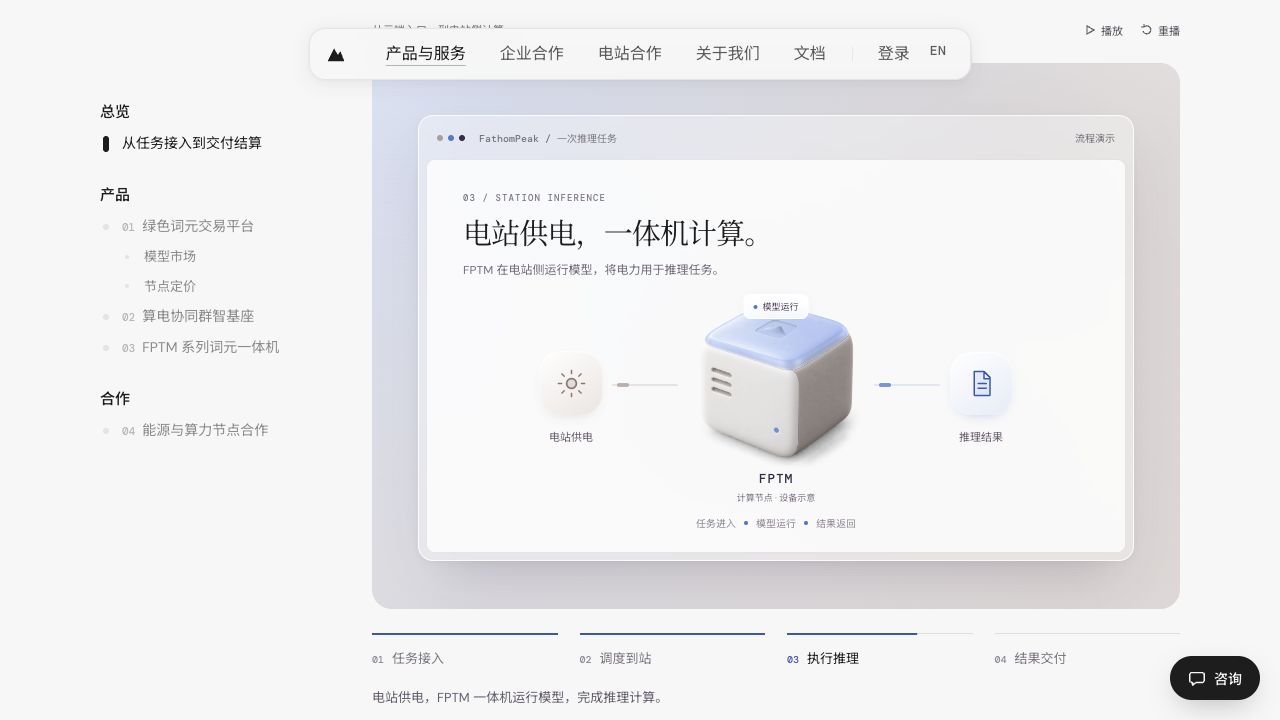
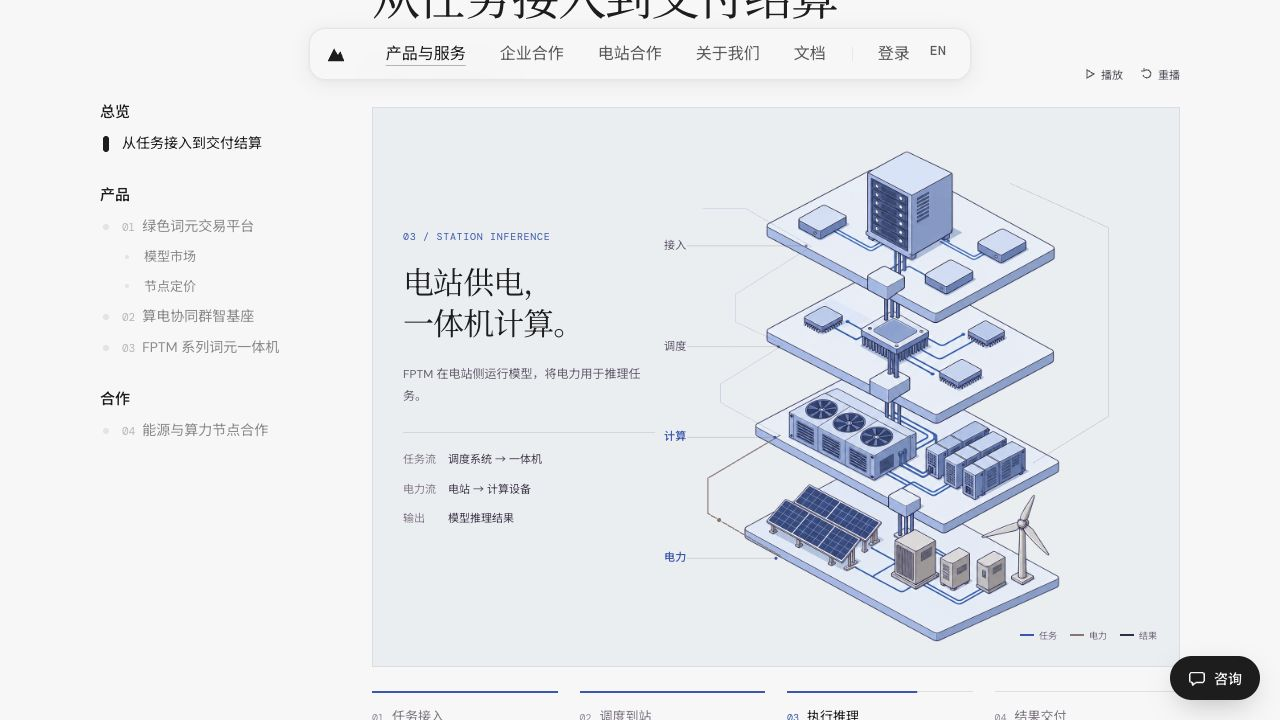
Replace ceramic cube with reference-led isometric engineering flow

diff --git a/index.html b/index.html
@@ -681,42 +681,22 @@ a.sx-a:hover .sxw,a.sx-a:hover .sx-plant{transform:translateY(-2px);background:r
  .gcard:hover .pv{transform:translateY(-3px)}.gcard .pv{transition:transform .3s var(--ease-out)}
 }
 
-/* A single task, shown through four translucent product scenes. */
-.business-flow{margin:30px 0 0;color:var(--brand-carbon);--flow-progress:0;--flow-tone:var(--brand-blue)}
+/* Engineering illustration: conceptual roles, separate task and energy flows. */
+.business-flow{margin:30px 0 0;color:var(--brand-carbon)}
 .flow-toolbar{display:flex;align-items:center;justify-content:space-between;gap:12px;margin-bottom:14px;color:#766f78;font:400 11px var(--mono)}
-.flow-controls{display:flex;gap:18px}.flow-controls button{display:flex;align-items:center;gap:5px;min-height:38px;padding:4px 0;border:0;background:none;color:#655f69;font:400 11px var(--sans);cursor:pointer}.flow-controls button:hover{color:var(--brand-action)}.flow-controls svg{width:12px;height:12px}.flow-controls button:disabled{opacity:.55;cursor:default}
-.flow-stage{position:relative;isolation:isolate;padding:52px 46px 48px;overflow:hidden;border-radius:20px;background:#eeeff1}
-.flow-stage:before,.flow-stage:after{content:"";position:absolute;inset:0;z-index:-1;pointer-events:none;transition:opacity 1.2s ease}
-.flow-stage:before{background:radial-gradient(ellipse at 12% 12%,#5284D72e,transparent 65%),radial-gradient(ellipse at 90% 95%,#B7A8A352,transparent 65%),linear-gradient(125deg,#f3f5f8,#f3f0f1)}
-.flow-stage:after{opacity:0;background:radial-gradient(ellipse at 82% 20%,#B7A8A355,transparent 70%),radial-gradient(ellipse at 12% 100%,#3D314F22,transparent 65%)}
-.business-flow[data-phase="2"] .flow-stage:after,.business-flow[data-phase="3"] .flow-stage:after{opacity:1}
-.flow-window{position:relative;padding:0 8px 8px;background:rgba(255,255,255,.38);border:1px solid rgba(255,255,255,.86);border-radius:15px;box-shadow:0 2px 5px #3D314F0a,0 25px 50px -24px #3D314F40;backdrop-filter:blur(18px);-webkit-backdrop-filter:blur(18px)}
-.flow-bar{height:44px;display:flex;align-items:center;gap:14px;padding:0 10px;font:400 10px var(--mono);color:#837d87}.flow-dots{display:flex;gap:5px}.flow-dots i{width:6px;height:6px;border-radius:50%;background:var(--brand-warm)}.flow-dots i:nth-child(2){background:var(--brand-blue)}.flow-dots i:nth-child(3){background:var(--brand-violet)}.flow-bar small{margin-left:auto;font:400 10px var(--sans)}
-.flow-canvas{position:relative;height:392px;border-radius:8px;background:rgba(255,255,255,.79);overflow:hidden;box-shadow:0 0 0 1px #3D314F04}
-.flow-scene{position:absolute;inset:0;padding:32px 36px;opacity:0;visibility:hidden;transform:translateY(12px);transition:opacity .55s ease,transform .75s cubic-bezier(.2,.7,.2,1),visibility 0s;pointer-events:none}
-.flow-scene.is-current{opacity:1;visibility:visible;transform:none;pointer-events:auto}.flow-eyebrow{font:400 9px var(--mono);letter-spacing:1.1px;color:#8a808f;display:block;margin-bottom:12px}.flow-scene h3{font:400 29px/1.25 var(--serif);letter-spacing:-.03em;margin:0 0 8px;color:var(--brand-carbon)}.flow-scene p{font:400 12px/1.8 var(--sans);color:#807987;margin:0}.flow-scene b{font-weight:500}.flow-scene h3>span{display:inline-block}html[lang="en"] .flow-scene h3>span+span{margin-left:.2em}
-.flow-request{display:grid;grid-template-columns:1fr 1.14fr;align-items:center;gap:35px;height:100%;padding-bottom:14px}.flow-mark{display:grid;place-items:center;width:54px;height:54px;border-radius:16px;background:#5284D718;color:var(--brand-action);margin-bottom:23px}.flow-mark svg{width:27px;height:27px}.flow-request h3{font-size:32px}.flow-request-paper{padding:22px 22px 12px;border:1px solid #fff;border-radius:10px;background:#ffffffbf;box-shadow:0 10px 30px -15px #3D314F30;transform:translateY(calc((1 - var(--flow-reveal)) * 10px));opacity:calc(.3 + var(--flow-reveal)*.7)}.flow-paper-head{display:flex;justify-content:space-between;align-items:center;font:400 10px var(--mono);color:var(--brand-action);padding-bottom:18px;border-bottom:1px solid #3D314F0d}.flow-paper-head svg{width:15px;height:15px}.flow-fields{margin:4px 0 0}.flow-fields div{padding:13px 0;display:flex;justify-content:space-between;border-bottom:1px solid #3D314F08;font:400 11px var(--sans);gap:10px}.flow-fields div:last-child{border:0}.flow-fields dt{color:#938a96}.flow-fields dd{margin:0;color:#504758}.flow-transfer{margin-top:17px;color:var(--brand-action)!important;font:400 10px var(--mono)!important}.flow-transfer i{display:inline-block;vertical-align:middle;width:5px;height:5px;background:var(--brand-blue);border-radius:50%;margin-right:6px;opacity:calc(.25 + var(--flow-reveal)*.75)}
-.flow-criteria{display:flex;gap:16px;margin:20px 0 17px;font:400 10px var(--sans);color:#7c7385}.flow-criteria span{display:flex;align-items:center;gap:5px}.flow-criteria i{height:5px;width:5px;background:var(--brand-blue);border-radius:50%}.flow-criteria span:nth-child(2) i{background:var(--brand-warm)}.flow-criteria span:nth-child(3) i{background:var(--brand-violet)}
-.flow-stations{display:grid;grid-template-columns:repeat(3,1fr);gap:10px;position:relative}.flow-station{min-width:0;position:relative;height:149px;padding:19px 15px 15px;border-radius:10px;background:#B7A8A30b;border:1px solid #3D314F08;transition:background .5s,box-shadow .5s}.flow-station.selected{background:rgba(82,132,215,var(--flow-wash));box-shadow:inset 0 0 0 1px rgba(82,132,215,var(--flow-line))}.flow-station svg{width:27px;height:27px;color:var(--brand-warm);display:block;margin-bottom:13px}.flow-station.selected svg{color:var(--brand-action)}.flow-station b{display:block;font:400 13px var(--sans);margin-bottom:3px}.flow-station small{font:400 10px var(--sans);color:#8a808e}.flow-picked{position:absolute;right:12px;top:15px;color:var(--brand-action);font:400 9px var(--sans);opacity:var(--flow-reveal)}.flow-route-note{display:flex;align-items:center;gap:9px;margin-top:15px;font:400 10px var(--sans);color:#81768a}.flow-route-note strong{font-weight:400;color:var(--brand-action);opacity:var(--flow-reveal)}.flow-route-note i{height:1px;flex:1;background:linear-gradient(90deg,#5284D7aa,#5284D71a);transform:scaleX(var(--flow-reveal));transform-origin:left}
-.flow-compute{display:flex;align-items:center;justify-content:center;margin:6px 0 8px;gap:0;height:220px}
-.flow-source,.flow-output{width:82px;text-align:center;flex:none;font:400 11px var(--sans);color:#766b7c}
-.flow-source-orb{width:64px;height:64px;margin:0 auto 13px;display:grid;place-items:center;border-radius:22px;background:linear-gradient(145deg,#fff,#eee8e5);box-shadow:inset 0 1px 2px #fff,0 6px 14px -9px #B7A8A380}
-.flow-source-orb svg{width:29px;height:29px;color:#9b8179;fill:#B7A8A340;stroke-width:1.4}
-.flow-output>svg{box-sizing:content-box;display:block;width:29px;height:29px;padding:17px;border-radius:22px;margin:0 auto 13px;color:var(--brand-action);fill:#5284D71a;background:linear-gradient(145deg,#fff,#e8eef7);box-shadow:inset 0 1px 2px #fff,0 6px 14px -9px #5284D780;opacity:calc(.6 + var(--flow-reveal)*.4)}
-.flow-conduit{height:2px;background:#B7A8A340;width:45px;position:relative;flex:1;max-width:66px;margin-top:-26px;border-radius:2px}
-.flow-conduit:after{content:"";position:absolute;top:-1px;width:12px;height:4px;border-radius:3px;background:var(--brand-warm);left:calc(var(--flow-travel)*82%);opacity:.75}
-.flow-conduit.output{background:#5284D726}.flow-conduit.output:after{background:var(--brand-blue)}
-.flow-machine{position:relative;flex:none;width:196px;text-align:center;align-self:center;padding:0;border:0;background:none;box-shadow:none}
-.flow-cube-art{height:177px;position:relative}.flow-cube-art img{display:block;width:196px;height:196px;object-fit:contain;position:absolute;left:0;top:-8px}
-.flow-machine b{display:block;font:500 13px var(--mono);letter-spacing:.06em;color:var(--brand-violet);margin-top:1px}.flow-machine small{display:block;font:400 9px var(--sans);color:#8b818f;margin-top:4px}
-.flow-task-tag{position:absolute;left:50%;top:2px;transform:translate(-50%,calc((1 - var(--flow-reveal))*-8px));white-space:nowrap;padding:5px 9px;border:1px solid #ffffffde;border-radius:7px;background:#ffffffc9;backdrop-filter:blur(8px);box-shadow:0 3px 9px #3D314F0a;font:400 9px var(--sans);color:#65596d;opacity:var(--flow-reveal)}.flow-task-tag i{display:inline-block;width:4px;height:4px;background:var(--brand-blue);border-radius:50%;vertical-align:middle;margin-right:5px}
-.flow-compute-foot{display:flex;align-items:center;justify-content:center;gap:8px;font:400 10px var(--mono);color:#918896}.flow-compute-foot i{width:4px;height:4px;border-radius:50%;background:var(--brand-blue)}
-.flow-delivery{display:grid;grid-template-columns:1fr 1.15fr;gap:38px;align-items:center;height:100%;padding-bottom:15px}.flow-complete{width:48px;height:48px;border-radius:50%;background:#5284D716;display:grid;place-items:center;margin-bottom:22px;color:var(--brand-action)}.flow-complete svg{width:22px;height:22px}.flow-receipt{padding:23px;background:#fffc;border-radius:9px;box-shadow:0 14px 28px -16px #3D314F3d;border:1px solid #fff;transform:translateY(calc((1 - var(--flow-reveal))*12px))}.flow-receipt-title{font:400 11px var(--mono);color:#7d7486;padding-bottom:15px;border-bottom:1px solid #3D314F0f}.flow-receipt ul{list-style:none;margin:5px 0 0;padding:0}.flow-receipt li{display:flex;align-items:center;justify-content:space-between;gap:10px;padding:12px 0 8px;font:400 12px var(--sans);color:#665b70;opacity:calc(.35 + var(--flow-reveal)*.65)}.flow-receipt li svg{width:13px;height:13px;color:var(--brand-action)}.flow-receipt li:last-child{border-top:1px solid #3D314F0a;margin-top:7px;padding-top:14px}.flow-receipt small{font:400 9px var(--sans);color:#9c939f;display:block;margin-top:12px}
-.flow-nav{display:grid;grid-template-columns:repeat(4,minmax(0,1fr));gap:22px;margin-top:24px}.flow-nav button{position:relative;padding:14px 0;text-align:left;background:none;border:0;border-top:1px solid #3D314F1f;font:400 13px var(--sans);color:#8a818d;cursor:pointer}.flow-nav button:before{content:"";position:absolute;left:0;right:0;top:-1px;height:2px;background:var(--brand-action);transform:scaleX(var(--step-progress,0));transform-origin:left}.flow-nav button[aria-current="step"]{color:var(--brand-carbon)}.flow-nav em{font:400 10px var(--mono);margin-right:8px;color:#9a91a0}.flow-nav button[aria-current="step"] em{color:var(--brand-action)}.flow-caption{font:400 13px/1.85 var(--sans);color:#716979;min-height:49px;margin:5px 0 0;max-width:650px}.flow-caption p{margin:0}.flow-caption [hidden]{display:none}.flow-note{display:block;font:400 10px/1.7 var(--sans);color:#99909b;margin-top:12px}.flow-controls button:focus-visible,.flow-nav button:focus-visible{outline:2px solid var(--brand-action);outline-offset:4px}
-@media(max-width:1100px) and (min-width:801px){.flow-stage{padding:32px 20px}.flow-scene{padding:28px 23px}.flow-request,.flow-delivery{gap:20px}.flow-request h3{font-size:27px}.flow-station{padding:17px 12px}.flow-source{width:80px}.flow-machine{width:176px}.flow-cube-art{height:166px}.flow-cube-art img{width:176px;height:176px}.flow-output{width:65px}.flow-source-orb{width:65px;height:65px}}
-@media(max-width:800px){.flow-toolbar{margin-bottom:10px;font-size:9px}.flow-controls{gap:14px}.flow-controls button{min-height:44px;font-size:11px}.flow-stage{padding:24px 12px;border-radius:14px}.flow-window{padding:0 5px 5px;border-radius:11px}.flow-bar{height:34px;padding:0 6px;gap:8px;font-size:8px}.flow-dots{gap:4px}.flow-dots i{width:5px;height:5px}.flow-bar small{font-size:8px}.flow-canvas{height:416px}.flow-scene{padding:27px 20px}.flow-scene h3,.flow-request h3{font-size:25px}.flow-scene p{font-size:11px}.flow-request,.flow-delivery{display:block;padding:0}.flow-mark,.flow-complete{display:none}.flow-eyebrow{font-size:8px;margin-bottom:9px}.flow-request-paper{margin-top:22px;padding:14px 18px 7px}.flow-paper-head{padding-bottom:11px}.flow-fields div{padding:11px 0}.flow-transfer{margin-top:12px}.flow-criteria{gap:9px;flex-wrap:wrap;font-size:9px;margin:20px 0 15px}.flow-stations{gap:6px}.flow-station{height:150px;padding:20px 8px 10px}.flow-station svg{width:25px;height:25px;margin:7px 0 15px}.flow-station b{font-size:11px}.flow-station small{font-size:8px}.flow-picked{top:9px;right:8px;font-size:8px}.flow-route-note{flex-wrap:wrap;gap:7px;line-height:1.8;font-size:9px}.flow-route-note i{min-width:12px}.flow-source{width:48px}.flow-source-orb{width:48px;height:48px;border-radius:17px}.flow-source-orb svg{width:24px;height:24px}.flow-source span{font-size:10px}.flow-compute{margin:28px 0 24px;height:180px}.flow-machine{width:128px;padding:0}.flow-cube-art{height:124px}.flow-cube-art img{width:138px;height:138px;left:-5px;top:-2px}.flow-machine b{font-size:11px}.flow-machine small{font-size:8px}.flow-task-tag{font-size:8px;top:0;padding:4px 6px}.flow-output{width:47px;font-size:10px}.flow-output>svg{width:24px;height:24px;padding:12px;border-radius:17px;margin-bottom:12px}.flow-conduit{min-width:8px;width:12px;margin-top:-22px}.flow-conduit:after{width:6px}.flow-slots{gap:4px}.flow-slots i{width:13px}.flow-compute-foot{font-size:9px;gap:6px}.flow-receipt{margin-top:20px;padding:17px 18px}.flow-receipt li{padding:9px 0 6px;font-size:11px}.flow-receipt small{margin-top:10px}.flow-nav{gap:13px;margin-top:19px}.flow-nav button{font-size:12px;min-height:56px;line-height:1.5}.flow-nav em{display:block;margin:0 0 4px}.flow-caption{font-size:12px;min-height:72px}.flow-note{font-size:9px}}
-.flow-station>svg{box-sizing:content-box;padding:9px;border-radius:14px;background:linear-gradient(145deg,#fff,#B7A8A322);box-shadow:inset 0 1px 1px #fff,0 4px 9px -7px #3D314F40;fill:#B7A8A329;stroke-width:1.4;width:24px;height:24px;margin-bottom:10px}.flow-station.selected>svg{background:linear-gradient(145deg,#fff,#5284D726);fill:#5284D725}.flow-station:nth-child(3)>svg{color:var(--brand-violet);fill:#3D314F19;background:linear-gradient(145deg,#fff,#3D314F12)}
-@media(max-width:800px){.flow-station>svg{width:23px;height:23px;padding:7px;border-radius:12px;margin:7px 0 12px}.flow-machine small{white-space:nowrap}.flow-source span,.flow-output{font-size:9px}}
+.flow-controls{display:flex;gap:18px}.flow-controls button{display:flex;align-items:center;gap:5px;min-height:38px;padding:4px 0;border:0;background:none;color:#655f69;font:400 11px var(--sans);cursor:pointer}.flow-controls button:hover{color:var(--brand-action)}.flow-controls svg{width:12px;height:12px}.flow-controls button:disabled{opacity:.55}
+.flow-stage{position:relative;display:grid;grid-template-columns:.8fr 1.6fr;align-items:center;gap:0;min-height:550px;padding:30px 20px 24px 30px;background:#edf0f3;border:1px solid #3D314F16;overflow:hidden}
+.flow-copy{position:relative;min-height:320px;z-index:2}.flow-scene{position:absolute;inset:0;opacity:0;visibility:hidden;transform:translateY(8px);transition:opacity .45s,transform .6s;pointer-events:none}.flow-scene.is-current{opacity:1;visibility:visible;transform:none;pointer-events:auto}
+.flow-eyebrow{display:block;font:400 10px var(--mono);letter-spacing:.07em;color:var(--brand-action);margin-bottom:20px}.flow-scene h3{font:400 31px/1.32 var(--serif);margin:0 0 18px;color:var(--brand-carbon);letter-spacing:-.03em}.flow-scene p{font:400 12px/1.9 var(--sans);color:#756c7d;margin:0 0 24px;max-width:22em}
+.flow-facts{display:grid;gap:12px;padding-top:18px;border-top:1px solid #3D314F20;margin:0}.flow-facts div{display:flex;gap:12px;font:400 11px/1.6 var(--sans)}.flow-facts dt{color:#938799;flex:none;width:3em}.flow-facts dd{margin:0;color:#50465b}
+.flow-art{position:relative;width:100%;aspect-ratio:1;align-self:center}.flow-art>img{display:block;width:100%;height:100%;object-fit:contain}.flow-art>svg{position:absolute;inset:0;width:100%;height:100%;overflow:visible}
+.flow-wire{fill:none;stroke:var(--brand-action);stroke-width:1.6;stroke-linecap:round;stroke-linejoin:round;opacity:.17}.flow-wire.energy{stroke:#96817a}.flow-wire.result{stroke:var(--brand-violet)}.flow-wire.active{stroke-width:2.5;opacity:.85}.flow-packet{fill:var(--brand-action);stroke:#edf0f3;stroke-width:2}.flow-packet.energy{fill:#96817a}.flow-packet.result{fill:var(--brand-violet)}
+.flow-layer-label{font:400 22px var(--sans);fill:#71677d}.flow-layer-label.active{fill:var(--brand-action);font-weight:500}.flow-layer-guide{fill:none;stroke:#3D314F55;stroke-width:1}.flow-layer-dot{fill:#3D314F80}.flow-layer-dot.active{fill:var(--brand-action)}
+.flow-art-key{position:absolute;right:2px;bottom:0;display:flex;gap:13px;font:400 9px var(--sans);color:#83758c}.flow-art-key span{display:flex;align-items:center;gap:5px}.flow-art-key i{width:14px;height:2px;background:var(--brand-action)}.flow-art-key span:nth-child(2) i{background:#96817a}.flow-art-key span:nth-child(3) i{background:var(--brand-violet)}
+.flow-nav{display:grid;grid-template-columns:repeat(4,minmax(0,1fr));gap:22px;margin-top:24px}.flow-nav button{position:relative;padding:14px 0;text-align:left;background:none;border:0;border-top:1px solid #3D314F1f;font:400 13px var(--sans);color:#8a818d;cursor:pointer}.flow-nav button:before{content:"";position:absolute;left:0;right:0;top:-1px;height:2px;background:var(--brand-action);transform:scaleX(var(--step-progress,0));transform-origin:left}.flow-nav button[aria-current="step"]{color:var(--brand-carbon)}.flow-nav em{font:400 10px var(--mono);margin-right:8px;color:#9a91a0}.flow-nav button[aria-current="step"] em{color:var(--brand-action)}
+.flow-caption{font:400 13px/1.85 var(--sans);color:#716979;min-height:49px;margin:5px 0 0;max-width:650px}.flow-caption p{margin:0}.flow-caption [hidden]{display:none}.flow-note{display:block;font:400 10px/1.7 var(--sans);color:#99909b;margin-top:12px}.flow-controls button:focus-visible,.flow-nav button:focus-visible{outline:2px solid var(--brand-action);outline-offset:4px}
+@media(max-width:1100px) and (min-width:801px){.flow-stage{padding:26px 14px;grid-template-columns:.8fr 1.2fr}.flow-scene h3{font-size:27px}.flow-facts div{font-size:10px}}
+@media(max-width:800px){.flow-toolbar{font-size:9px}.flow-controls{gap:14px}.flow-controls button{min-height:44px}.flow-stage{display:flex;flex-direction:column;align-items:stretch;padding:25px 20px 20px;min-height:0}.flow-copy{min-height:240px}.flow-scene h3{font-size:28px;margin-bottom:12px}.flow-scene h3 br{display:none}.flow-scene p{font-size:11px;max-width:none;margin-bottom:17px}.flow-eyebrow{font-size:9px;margin-bottom:12px}.flow-facts{gap:5px;padding-top:12px}.flow-facts div{font-size:10px}.flow-art{width:calc(100% + 30px);margin:0 -15px 10px}.flow-art-key{bottom:-10px;font-size:8px}.flow-nav{gap:13px;margin-top:19px}.flow-nav button{font-size:12px;min-height:56px;line-height:1.5}.flow-nav em{display:block;margin:0 0 4px}.flow-caption{font-size:12px;min-height:72px}.flow-note{font-size:9px}}
 @media(prefers-reduced-motion:reduce){.business-flow *,.btn,.pill,.sx *,.story-sheet,.story-bar i{animation:none!important;transition:none!important}.btn:hover,.gcard:hover .pv,.sx-a:hover .sx-mark,.sx-a:hover .sx-plant>svg{transform:none}}
 
 </style>
@@ -819,15 +799,10 @@ a.sx-a:hover .sxw,a.sx-a:hover .sx-plant{transform:translateY(-2px);background:r
         <h2 class="pe-t">从任务接入到交付结算</h2>
         <div class="business-flow" id="businessFlow" data-phase="0">
 <div class="flow-toolbar"><span>从云端入口，到电站侧计算</span><div class="flow-controls"><button type="button" data-flow-pause aria-pressed="false"><svg viewBox="0 0 12 12" aria-hidden="true"><path d="M4 2v8M8 2v8" fill="none" stroke="currentColor" stroke-width="1.2"/></svg><span>暂停</span></button><button type="button" data-flow-replay><svg viewBox="0 0 12 12" aria-hidden="true"><path d="M3 3a4 4 0 1 1-1 4M3 0v3H0" fill="none" stroke="currentColor" stroke-width="1.2"/></svg><span>重播</span></button></div></div>
-<div class="flow-stage"><div class="flow-window"><div class="flow-bar"><span class="flow-dots" aria-hidden="true"><i></i><i></i><i></i></span><span>FathomPeak / 一次推理任务</span><small>流程演示</small></div><div class="flow-canvas">
-<section class="flow-scene is-current" data-flow-scene="0" aria-label="任务接入"><div class="flow-request"><div><div class="flow-mark"><svg viewBox="0 0 24 24" fill="none" stroke="currentColor" stroke-width="1.3" stroke-linecap="round" stroke-linejoin="round" aria-hidden="true"><path d="m8 7-5 5 5 5m8-10 5 5-5 5m-3-13-2 16"/></svg></div><span class="flow-eyebrow">01 / API REQUEST</span><h3>一个接口，<br>接入你的任务。</h3><p>统一入口接收调用，<br>把任务要求交给调度系统。</p><p class="flow-transfer"><i></i>任务 → 协同调度</p></div><div class="flow-request-paper"><div class="flow-paper-head"><span>推理任务</span><svg viewBox="0 0 24 24" fill="none" stroke="currentColor" stroke-width="1.3" stroke-linecap="round" stroke-linejoin="round" aria-hidden="true"><path d="m8 7-5 5 5 5m8-10 5 5-5 5m-3-13-2 16"/></svg></div><dl class="flow-fields"><div><dt>模型</dt><dd>选择要调用的模型</dd></div><div><dt>输入</dt><dd>任务内容与参数</dd></div><div><dt>用量</dt><dd>预期调用规模</dd></div><div><dt>时限</dt><dd>任务交付要求</dd></div></dl></div></div></section>
-<section class="flow-scene" data-flow-scene="1" aria-hidden="true" inert aria-label="调度到站"><span class="flow-eyebrow">02 / TASK ROUTING</span><h3><span>为任务找到</span><span>合适的节点。</span></h3><p>结合任务时限、电力与节点条件，安排运行位置和时段。</p><div class="flow-criteria"><span><i></i>任务要求</span><span><i></i>电力预测</span><span><i></i>节点与网络状态</span></div><div class="flow-stations"><div class="flow-station selected"><span class="flow-picked">演示选中</span><svg viewBox="0 0 24 24" fill="none" stroke="currentColor" stroke-width="1.3" stroke-linecap="round" stroke-linejoin="round" aria-hidden="true"><circle cx="12" cy="12" r="4"/><path d="M12 1v3m0 16v3M1 12h3m16 0h3M4 4l2 2m12 12l2 2M4 20l2-2M18 6l2-2"/></svg><b>光伏节点</b><small>电站侧一体机</small></div><div class="flow-station"><svg viewBox="0 0 24 24" fill="none" stroke="currentColor" stroke-width="1.3" stroke-linecap="round" stroke-linejoin="round" aria-hidden="true"><path d="M12 10v12M12 10 9 1M12 10l10 3M12 10l-8 7"/><circle cx="12" cy="10" r="1.5"/></svg><b>风电节点</b><small>候选资源</small></div><div class="flow-station"><svg viewBox="0 0 24 24" fill="none" stroke="currentColor" stroke-width="1.3" stroke-linecap="round" stroke-linejoin="round" aria-hidden="true"><path d="M12 2S5 10 5 15a7 7 0 0 0 14 0C19 10 12 2 12 2Z"/></svg><b>水电节点</b><small>候选资源</small></div></div><div class="flow-route-note"><span>协同调度</span><i></i><strong>任务送往光伏节点 →</strong></div></section>
-<section class="flow-scene" data-flow-scene="2" aria-hidden="true" inert aria-label="执行推理"><span class="flow-eyebrow">03 / STATION INFERENCE</span><h3><span>电站供电，</span><span>一体机计算。</span></h3><p>FPTM 在电站侧运行模型，将电力用于推理任务。</p><div class="flow-compute"><div class="flow-source"><div class="flow-source-orb"><svg viewBox="0 0 24 24" fill="none" stroke="currentColor" stroke-width="1.3" stroke-linecap="round" stroke-linejoin="round" aria-hidden="true"><circle cx="12" cy="12" r="4"/><path d="M12 1v3m0 16v3M1 12h3m16 0h3M4 4l2 2m12 12l2 2M4 20l2-2M18 6l2-2"/></svg></div><span>电站供电</span></div><div class="flow-conduit" aria-hidden="true"></div><div class="flow-machine"><div class="flow-cube-art"><img src="art/compute-cube_2026-10-14.png" width="1024" height="1024" alt="" loading="lazy" decoding="async"><span class="flow-task-tag"><i></i>模型运行</span></div><b>FPTM</b><small>计算节点 · 设备示意</small></div><div class="flow-conduit output" aria-hidden="true"></div><div class="flow-output"><svg viewBox="0 0 24 24" fill="none" stroke="currentColor" stroke-width="1.3" stroke-linecap="round" stroke-linejoin="round" aria-hidden="true"><path d="M6 2h8l5 5v15H6ZM14 2v6h5M9 12h7M9 16h7"/></svg><span>推理结果</span></div></div><div class="flow-compute-foot"><span>任务进入</span><i></i><span>模型运行</span><i></i><span>结果返回</span></div></section>
-<section class="flow-scene" data-flow-scene="3" aria-hidden="true" inert aria-label="结果交付"><div class="flow-delivery"><div><div class="flow-complete"><svg viewBox="0 0 24 24" fill="none" stroke="currentColor" stroke-width="1.3" stroke-linecap="round" stroke-linejoin="round" aria-hidden="true"><path d="m6 12 4 4 8-9"/></svg></div><span class="flow-eyebrow">04 / RESULT DELIVERY</span><h3>返回结果，<br>也留下记录。</h3><p>平台向客户交付推理结果，<br>关联本次任务的用量与费用。</p></div><div class="flow-receipt"><div class="flow-receipt-title">同一任务 · 交付内容</div><ul><li><span>推理结果</span><svg viewBox="0 0 24 24" fill="none" stroke="currentColor" stroke-width="1.3" stroke-linecap="round" stroke-linejoin="round" aria-hidden="true"><path d="m6 12 4 4 8-9"/></svg></li><li><span>词元用量</span><svg viewBox="0 0 24 24" fill="none" stroke="currentColor" stroke-width="1.3" stroke-linecap="round" stroke-linejoin="round" aria-hidden="true"><path d="m6 12 4 4 8-9"/></svg></li><li><span>计费记录</span><svg viewBox="0 0 24 24" fill="none" stroke="currentColor" stroke-width="1.3" stroke-linecap="round" stroke-linejoin="round" aria-hidden="true"><path d="m6 12 4 4 8-9"/></svg></li><li><span>能源关联信息</span><svg viewBox="0 0 24 24" fill="none" stroke="currentColor" stroke-width="1.3" stroke-linecap="round" stroke-linejoin="round" aria-hidden="true"><path d="m6 12 4 4 8-9"/></svg></li></ul><small>记录内容按实际服务提供</small></div></div></section>
-</div></div></div>
+<div class="flow-stage"><div class="flow-copy"><section class="flow-scene is-current" data-flow-scene="0" aria-label="任务接入" aria-hidden="false"><span class="flow-eyebrow">01 / API REQUEST</span><h3>一个入口，<br>明确任务。</h3><p>模型、输入内容与交付要求，通过统一 API 进入平台。</p><dl class="flow-facts"><div><dt>输入</dt><dd>任务内容与参数</dd></div><div><dt>约束</dt><dd>模型、用量、交付时限</dd></div><div><dt>去向</dt><dd>算电协同调度</dd></div></dl></section><section class="flow-scene" data-flow-scene="1" aria-label="调度到站" aria-hidden="true" inert><span class="flow-eyebrow">02 / TASK ROUTING</span><h3>让任务找到<br>合适的节点。</h3><p>结合任务时限、电力预测、节点与网络状态，安排运行位置和时段。</p><dl class="flow-facts"><div><dt>判断</dt><dd>任务与资源条件</dd></div><div><dt>安排</dt><dd>节点与运行时段</dd></div><div><dt>下发</dt><dd>电站侧推理任务</dd></div></dl></section><section class="flow-scene" data-flow-scene="2" aria-label="执行推理" aria-hidden="true" inert><span class="flow-eyebrow">03 / STATION INFERENCE</span><h3>电站供电，<br>一体机计算。</h3><p>FPTM 在电站侧运行模型，将电力用于推理任务。</p><dl class="flow-facts"><div><dt>任务流</dt><dd>调度系统 → 一体机</dd></div><div><dt>电力流</dt><dd>电站 → 计算设备</dd></div><div><dt>输出</dt><dd>模型推理结果</dd></div></dl></section><section class="flow-scene" data-flow-scene="3" aria-label="结果交付" aria-hidden="true" inert><span class="flow-eyebrow">04 / RESULT DELIVERY</span><h3>返回结果，<br>留下记录。</h3><p>推理结果经平台交付客户，并关联本次任务的用量与费用。</p><dl class="flow-facts"><div><dt>交付</dt><dd>推理结果</dd></div><div><dt>计费</dt><dd>词元用量与费用</dd></div><div><dt>关联</dt><dd>实际提供的能源信息</dd></div></dl></section></div><div class="flow-art"><img src="art/engineering-stack_2026-10-14.png" width="1254" height="1254" alt="四层等轴测工程插画，依次表示接入、调度、计算与能源职责" loading="lazy" decoding="async"><svg viewBox="0 0 1000 1000" aria-hidden="true"><path class="flow-wire" data-engine-path="0" d="M95 140 H180 L310 215"/><circle class="flow-packet" data-engine-packet="0" r="5"/><path class="flow-wire" data-engine-path="1" d="M310 215 L160 310 V365 L255 410 L130 488 V525 L248 590"/><circle class="flow-packet" data-engine-packet="1" r="5"/><path class="flow-wire energy" data-engine-path="2" d="M250 830 L105 745 V675 L248 590"/><circle class="flow-packet energy" data-engine-packet="2" r="5"/><path class="flow-wire result" data-engine-path="3" d="M750 645 L900 552 V178 L705 90"/><circle class="flow-packet result" data-engine-packet="3" r="5"/><text class="flow-layer-label" data-engine-label="0" x="18" y="220">接入</text><path class="flow-layer-guide" d="M64 214 H300"/><circle class="flow-layer-dot" data-engine-dot="0" cx="300" cy="214" r="3"/><text class="flow-layer-label" data-engine-label="1" x="18" y="420">调度</text><path class="flow-layer-guide" d="M64 414 H245"/><circle class="flow-layer-dot" data-engine-dot="1" cx="245" cy="414" r="3"/><text class="flow-layer-label" data-engine-label="2" x="18" y="600">计算</text><path class="flow-layer-guide" d="M64 594 H238"/><circle class="flow-layer-dot" data-engine-dot="2" cx="238" cy="594" r="3"/><text class="flow-layer-label" data-engine-label="3" x="18" y="840">电力</text><path class="flow-layer-guide" d="M64 834 H240"/><circle class="flow-layer-dot" data-engine-dot="3" cx="240" cy="834" r="3"/></svg><div class="flow-art-key"><span><i></i>任务</span><span><i></i>电力</span><span><i></i>结果</span></div></div></div>
 <div class="flow-nav" aria-label="选择动画步骤"><button type="button" data-flow-step="0" aria-current="step"><em>01</em>任务接入</button><button type="button" data-flow-step="1"><em>02</em>调度到站</button><button type="button" data-flow-step="2"><em>03</em>执行推理</button><button type="button" data-flow-step="3"><em>04</em>结果交付</button></div>
 <div class="flow-caption"><p data-flow-caption="0">任务通过统一 API 接入，模型、用量与交付时限进入调度环节。</p><p data-flow-caption="1" hidden>结合任务要求、电力预测、节点与网络状态，安排运行节点和时段，将任务送往电站侧一体机。</p><p data-flow-caption="2" hidden>电站供电，FPTM 一体机运行模型，完成推理计算。</p><p data-flow-caption="3" hidden>推理结果返回平台并交付客户，同时记录用量、费用与能源信息。</p></div>
-<small class="flow-note">业务流程示意 · 以光伏节点为例，不代表实时运行状态或实际处理时长。</small>
+<small class="flow-note">概念职责分层示意 · 非设备实物拆解图；动画不代表实时状态或实际处理时长。</small>
 </div>
       </article>
 
@@ -1541,10 +1516,13 @@ a.sx-a:hover .sxw,a.sx-a:hover .sx-plant{transform:translateY(-2px);background:r
     var stage=root.querySelector('.flow-stage'),pause=root.querySelector('[data-flow-pause]'),replay=root.querySelector('[data-flow-replay]');
     var steps=Array.from(root.querySelectorAll('[data-flow-step]')),captions=Array.from(root.querySelectorAll('[data-flow-caption]')),scenes=Array.from(root.querySelectorAll('[data-flow-scene]'));
     var reduced=matchMedia('(prefers-reduced-motion: reduce)'),manual=false,inView=false,elapsed=0,frame=0,last=0,phase=-1,total=20000,bounds=[0,5000,10000,15000,20000];
+    var paths=Array.from(root.querySelectorAll('[data-engine-path]')),packets=Array.from(root.querySelectorAll('[data-engine-packet]'));
     function clamp(v){return Math.max(0,Math.min(1,v))}function ease(v){v=clamp(v);return v*v*(3-2*v)}
     function render(){var i=Math.min(3,Math.floor(elapsed/5000)),p=(elapsed-bounds[i])/5000;
       if(i!==phase){phase=i;root.dataset.phase=i;steps.forEach(function(b,k){if(k===i)b.setAttribute('aria-current','step');else b.removeAttribute('aria-current')});captions.forEach(function(c,k){c.hidden=k!==i});scenes.forEach(function(c,k){c.classList.toggle('is-current',k===i);c.inert=k!==i;c.setAttribute('aria-hidden',String(k!==i))})}
       var reveal=ease(p/.55);root.style.setProperty('--flow-reveal',reveal);root.style.setProperty('--flow-travel',(p*3)%1);root.style.setProperty('--flow-wash',.02+reveal*.09);root.style.setProperty('--flow-line',reveal*.24);
+      paths.forEach(function(path,k){var active=k===i;path.classList.toggle('active',active);packets[k].style.opacity=active?1:0;if(active){var point=path.getPointAtLength(path.getTotalLength()*ease((p*2)%1));packets[k].setAttribute('cx',point.x);packets[k].setAttribute('cy',point.y)}});
+      root.querySelectorAll('[data-engine-label],[data-engine-dot]').forEach(function(el){var k=Number(el.getAttribute('data-engine-label')||el.getAttribute('data-engine-dot'));el.classList.toggle('active',i===0?k===0:i===1?k===1:i===2?(k===2||k===3):k===0)});
       steps.forEach(function(b,k){b.style.setProperty('--step-progress',k<i?1:k===i?p:0)});
     }
     function blocked(){return manual||reduced.matches||!inView||document.hidden}

diff --git a/README.md b/README.md
@@ -55,3 +55,11 @@
 - 光伏、风电、水电及结果图标改为品牌色浅填充与柔和圆角表面。修改只作用于流程模块；原有字体、业务数组、链接和表单地址均保持一致。
 - 保留四步自动播放、步骤定位、暂停和重播；计算图片对应电力输入与结果输出。场景切换取消旧画面的延迟显隐，减少交叠残影。
 - 已核查 1280px 桌面和 390px 手机布局，无横向溢出，图片正常加载，四步均只有一个当前场景。JavaScript 语法与 diff 检查通过，浏览器未记录脚本错误。截图更新至 `qa/motion-desktop-2026-10-14.png` 与 `qa/motion-mobile-2026-10-14.png`。仅本地修改，未发布。
+
+## 2026-10-14 按用户工程插画参考重新绘制
+
+- 以用户再次提供的薄层等轴测平台、工程设备拆解和电路立方体参考为准，移除陶瓷立方体，采用 `art/engineering-stack_2026-10-14.png`。由 ImageGen 生成无文字底图，四个职责标签、线路和动态标记由网页 SVG 绘制。
+- 四层表示 API 接入、协同调度、FPTM 计算和能源供给的概念职责，不代表真实设备层级、装机数量或产品外观。页面已标注。
+- 任务经接入与调度进入计算层；电力独立从能源层输入计算层；结果沿返回路径交付。复用原有单一时间轴、暂停、重播、步骤定位、离屏暂停与减少动效逻辑。
+- 桌面为文字与插画并排，手机上下排列。沿用原有字体和品牌晨蓝、暖灰、紫灰色系。原业务数据、导航和表单地址未改动；本轮仅修改本地副本。
+- 验证：1280px 桌面、390px 手机无横向溢出；图片完整加载；四个阶段的正文及活动线路对应，重播和暂停可用；JS 语法、重复 ID、git diff 检查通过。最新截图沿用 `qa/motion-desktop-2026-10-14.png` 与 `qa/motion-mobile-2026-10-14.png`。
